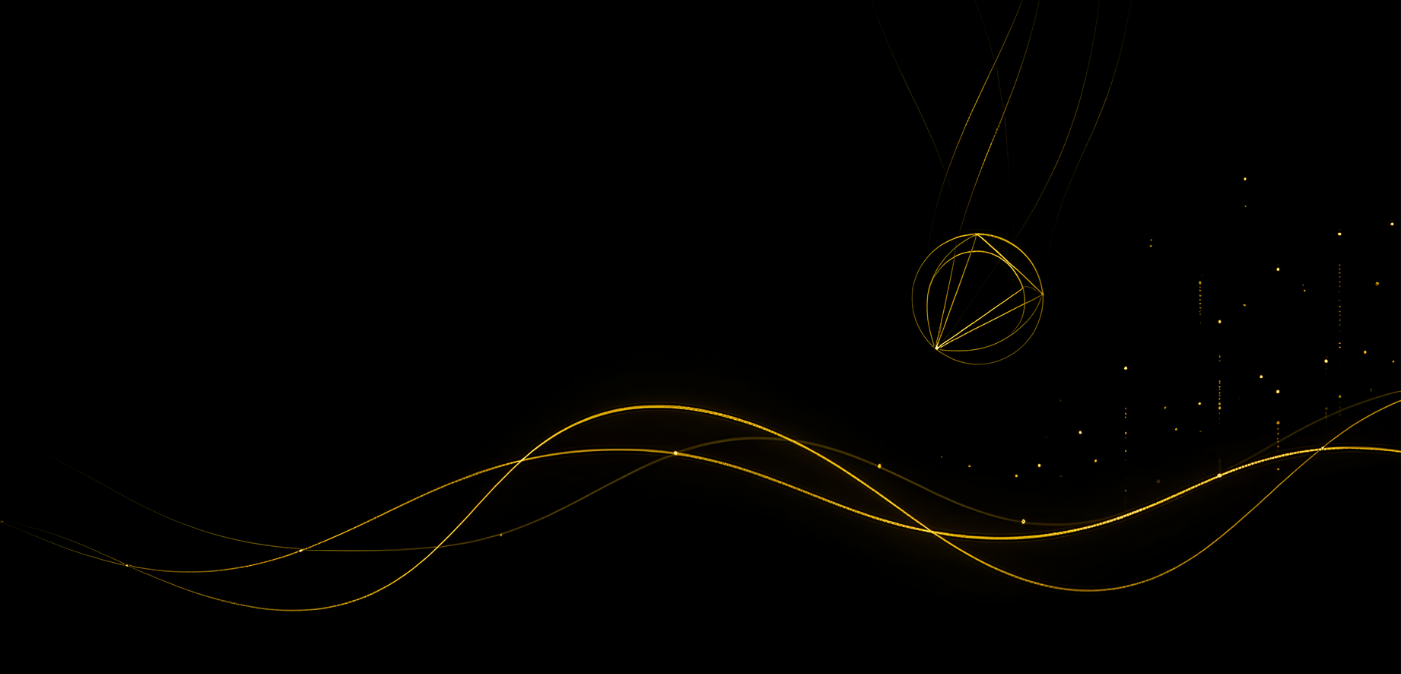
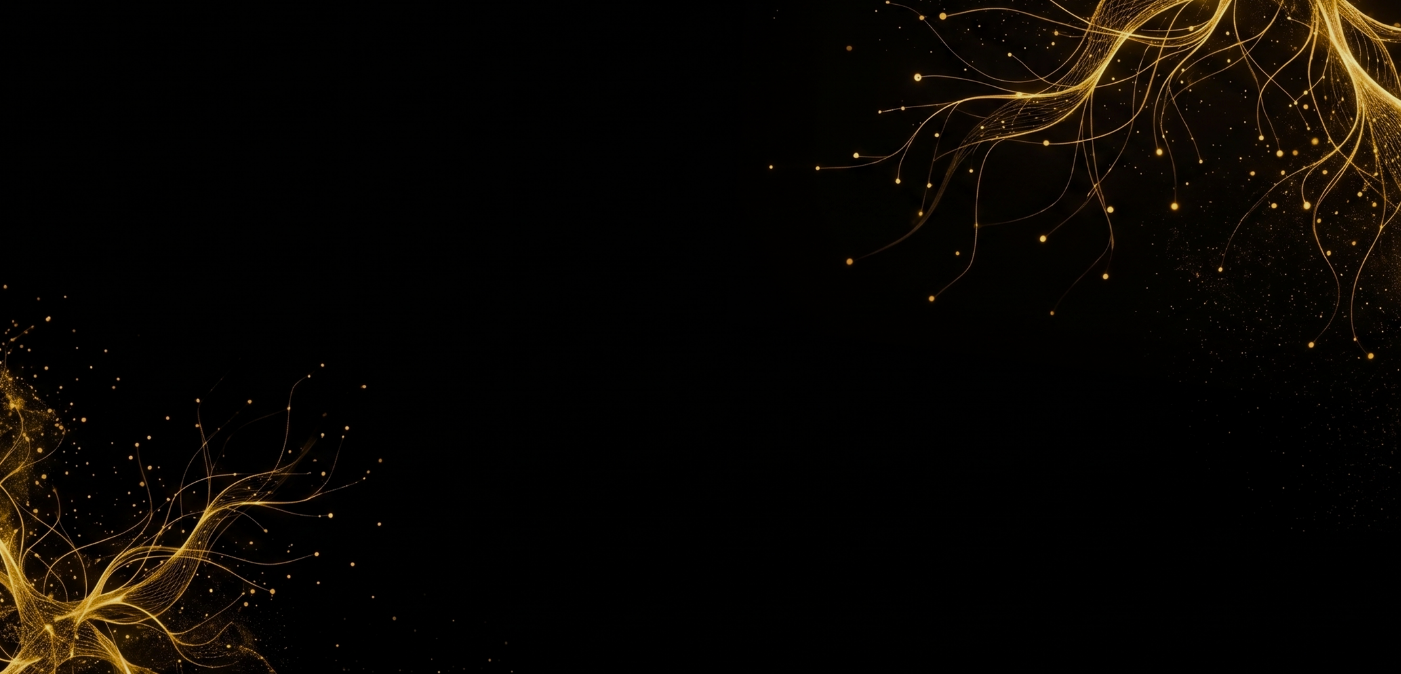
fixed publication image

diff --git a/src/index.css b/src/index.css
@@ -2,24 +2,14 @@
 
 @theme {
   /* Colors */
-  /* BLACK - main background color*/
-  --color-theme-black: #000; /* Deep, rich charcoal/black */
+  --color-theme-black: #000;
   --color-theme-heading: #ffffff;
-
-  /* textt */
-  --color-theme-gold: #fdc700;
-  --color-theme-gold-muted: #fafa33;
-  --color-theme-gold-light: #e6c587;
-
-  /* CANT REMEMBER - BUT ZINC BORDERS AND MUTED TEXTS */
+  /* borders */
   --color-theme-neutral-dark: #171717;
   --color-theme-neutral-muted: #a3a3a3;
   --color-theme-neutral-light: #a1a1a1;
-  /* 
-  /* NEED TO DELETE THIS BUT I AM USING SO REFACTOR  */
-  /* --color-theme-text: #cbbbbeff;  */
-
-  /* YELLOW - SECONDARY COLOR AND ITS DARK GRADIENT */
+  /* accents */
+  --color-theme-accent-light: #fdc700;
   --background-image-text-secondary: linear-gradient(
     to right,
     var(--color-yellow-400),
@@ -31,49 +21,22 @@
     var(--color-yellow-900)
   );
 
-  /* yellow-500 for border/highlights */
-  --color-theme-accent: #fafa33;
-  --color-theme-accent-light: #fdc700;
-
-  /* ALL COLOR PROPERTIES FROM HERE IT NEEDS TO BE REPLACED */
-  /* --background-image-heading-gradient: linear-gradient(
-    to right,
-    var(--color-yellow-400),
-    var(--color-yellow-700)
-  );
-  --background-image-heading-gradient-hover: linear-gradient(
-    to right,
-    var(--color-yellow-600),
-    var(--color-yellow-900)
-  );
-  --color-theme-accent-hover: #fef08a; */
-
   /* Fonts */
   --font-heading: "Playfair Display", serif;
   --font-body: "Inter", sans-serif;
-  /* for numbers */
   --font-mono: "Space Mono", monospace;
 
   /* Fluid Typography */
-  /* H1: Hero/Main Title */
   --text-fluid-1: clamp(2rem, 4vw, 3.5rem);
-
-  /* H2: Section Headers */
   --text-fluid-2: clamp(1.5rem, 3vw, 2rem);
-
-  /* H3: Sub-headers / Card Titles */
   --text-fluid-3: clamp(1.15rem, 2vw, 1.5rem);
-
-  /* Body Text: High readability */
   --text-fluid-4: clamp(1rem, 1.5vw, 1.15rem);
-
-  /* body font */
   --text-fluid-p: clamp(0.95rem, 1.1vw, 1.05rem);
 }
 
 @layer base {
   body {
-    @apply bg-theme-black font-body text-theme-gold-muted selection:bg-theme-accent/30 selection:text-theme-accent;
+    @apply bg-theme-black font-body text-theme-accent-light selection:bg-theme-accent-light/30 selection:text-theme-accent-light;
     overflow-x: hidden;
   }
   h1 {

diff --git a/src/components/Layout/Footer.jsx b/src/components/Layout/Footer.jsx
@@ -39,12 +39,12 @@ const connectLinks = [
 
 const Footer = () => {
   return (
-    <footer className="bg-black pt-20 pb-8 px-6 md:px-12 lg:px-20 border-t border-neutral-900 overflow-hidden">
+    <footer className="bg-theme-black pt-20 pb-8 px-6 md:px-12 lg:px-20 border-t border-theme-neutral-dark overflow-hidden">
       {/* Top Section - Stack vertically on mobile, side-by-side on medium+ screens */}
-      <div className="flex flex-col md:flex-row justify-between border-b border-neutral-900 pb-10 gap-10 md:gap-0">
+      <div className="flex flex-col md:flex-row justify-between border-b border-theme-neutral-dark pb-10 gap-10 md:gap-0">
         {/* Brand/Logo Section */}
         <div className="flex flex-col justify-start">
-          <h3 className="text-3xl tracking-[0.15em] text-white mb-3 font-semibold">
+          <h3 className="text-3xl tracking-[0.15em] text-theme-heading mb-3 font-semibold">
             A.K.
             <span className="text-secondary"> JANA</span>
           </h3>
@@ -67,7 +67,7 @@ const Footer = () => {
                   <Link
                     key={link.name}
                     to={link.path}
-                    className="flex items-center gap-3 text-neutral-400 text-sm hover:text-yellow-400 transition-all duration-300 group w-fit"
+                    className="flex items-center gap-3 text-theme-neutral-muted text-sm hover:text-theme-accent-light transition-all duration-300 group w-fit"
                   >
                     <Icon className="w-4 h-4 group-hover:scale-110 transition-transform duration-300" />
                     <span>{link.name}</span>
@@ -89,7 +89,7 @@ const Footer = () => {
                   href={link.href}
                   target="_blank"
                   rel="noopener noreferrer"
-                  className="flex items-center gap-3 text-neutral-400 text-sm hover:text-yellow-400 transition-all duration-300 group w-fit"
+                  className="flex items-center gap-3 text-theme-neutral-light text-sm hover:text-theme-accent-light transition-all duration-300 group w-fit"
                 >
                   {/* Custom Image Wrapper */}
                   <div className="w-5 h-5 flex items-center justify-center opacity-70 group-hover:opacity-100 group-hover:scale-110 transition-all duration-300">
@@ -108,25 +108,15 @@ const Footer = () => {
       </div>
 
       {/* Bottom Copyright Section */}
-      <div className="pt-8 flex flex-col md:flex-row justify-between items-start md:items-center gap-4 text-neutral-100 text-xs tracking-wider">
+      <div className="pt-8 flex flex-col md:flex-row justify-between items-start md:items-center gap-4 text-theme-neutral-light text-xs tracking-wider">
         <p>
           © {new Date().getFullYear()}
           <span className="text-secondary font-medium"> A.K. Jana</span> All
           rights reserved.
         </p>
-        <p className="text-left md:text-right font-light text-sm text-neutral-400">
+        <p className="text-left md:text-right font-light text-sm text-theme-neutral-light">
           Built by{" "}
-          <a
-            href="https://github.com/Dpsh613"
-            target="_blank"
-            rel="noopener noreferrer"
-            className="text-secondary relative inline-block opacity-80 hover:opacity-100 transition-opacity duration-300
-               after:absolute after:left-0 after:-bottom-0.5 after:h-[1px] after:w-0
-               after:bg-current after:transition-all after:duration-300
-               hover:after:w-full"
-          >
-            Deepika Sharma
-          </a>
+          <span className="text-secondary font-light font-sm">D.S</span>
         </p>
       </div>
     </footer>

diff --git a/src/components/features/home/HomeHero.jsx b/src/components/features/home/HomeHero.jsx
@@ -67,15 +67,16 @@ const HomeHero = () => {
               key={item.id}
               className="flex items-center gap-2 text-white/90 text-sm font-light tracking-wide"
             >
-              {/* Forced gold color for icons so they definitely show up */}
-              <span className="text-[#fdc700]">{getIcon(item.id)}</span>
+              <span className="text-theme-accent-light">
+                {getIcon(item.id)}
+              </span>
               {item.text}
             </div>
           ))}
         </div>
       </div>
 
-      <div className="w-full max-w-xl h-px bg-white/10 mb-5"></div>
+      <div className="w-full max-w-xl h-px bg-theme-heading/10 mb-5"></div>
 
       {/* Stats Grid - Tightened margins */}
       <div className="flex flex-wrap sm:flex-nowrap items-center gap-y-4 mb-2 max-w-xl">
@@ -83,29 +84,28 @@ const HomeHero = () => {
           <div className="text-3xl lg:text-4xl font-heading text-secondary mb-2">
             {pubData?.length || 0}
           </div>
-          <div className="text-xs sm:text-sm text-white/60 font-sans tracking-wider uppercase">
+          <div className="text-xs sm:text-sm text-theme-heading font-sans tracking-wider uppercase">
             Publications
           </div>
         </div>
-        <div className="w-1/2 sm:w-auto sm:px-8 text-left sm:border-l sm:border-white/10">
+        <div className="w-1/2 sm:w-auto sm:px-8 text-left sm:border-l sm:border-theme-heading">
           <div className="text-3xl lg:text-4xl font-heading text-secondary mb-2">
             {totalProposals}
           </div>
-          <div className="text-xs sm:text-sm text-white font-sans tracking-wider uppercase">
+          <div className="text-xs sm:text-sm text-theme-heading font-sans tracking-wider uppercase">
             Accepted Proposals
           </div>
         </div>
-        <div className="w-full sm:w-auto pt-2 sm:pt-0 border-t sm:border-t-0 sm:border-l border-white/10 sm:pl-8 text-left">
+        <div className="w-full sm:w-auto pt-2 sm:pt-0 border-t sm:border-t-0 sm:border-l border-theme-heading sm:pl-8 text-left">
           <div className="text-3xl lg:text-4xl font-heading text-secondary mb-2">
             {totalDays}
           </div>
-          <div className="text-xs sm:text-sm text-white font-sans tracking-wider uppercase">
+          <div className="text-xs sm:text-sm text-theme-heading font-sans tracking-wider uppercase">
             Beamdays Awarded
           </div>
         </div>
       </div>
 
-      {/* FIXED BUTTON: Replaced tailwind class with hardcoded hex background so it stands out bright gold instead of black-on-black */}
       <div className="pt-6 flex justify-center md:justify-start w-full">
         <HeroPrimary to="/publications">All Publications</HeroPrimary>
       </div>

diff --git a/src/components/Layout/PageHero.jsx b/src/components/Layout/PageHero.jsx
@@ -28,8 +28,8 @@ const PageHero = ({
         <Stagger
           className={`${leftCol} flex flex-col justify-center min-w-0 w-full overflow-hidden`}
         >
-          <StaggerItem className="flex items-center mb-1">
-            <span className="w-6 h-px bg-theme-accent shrink-0"></span>
+          <StaggerItem className="flex items-center mb-2">
+            <span className="w-10 h-px bg-theme-accent-light shrink-0"></span>
             <span className="text-secondary uppercase tracking-[0.2em] text-xs ml-2 font-bold font-mono shrink-0">
               {data.subtitle}
             </span>
@@ -37,7 +37,7 @@ const PageHero = ({
 
           <StaggerItem className="w-full">
             {/* Reduced from 5rem to 4rem to save vertical space */}
-            <h1 className="mb-4 text-gray-300 text-4xl md:text-5xl lg:text-[4rem] leading-[1.1] font-heading drop-shadow-md">
+            <h1 className="mb-4 text-theme-heading text-4xl md:text-5xl lg:text-[4rem] leading-[1.1] font-heading drop-shadow-md">
               {data.title}{" "}
               <span className="inline-block font-medium text-secondary transition-all duration-300">
                 {data.highlight}
@@ -55,10 +55,10 @@ const PageHero = ({
           )}
 
           {data.desc && (
-            <StaggerItem className="w-full">
-              <div className="w-12 h-px bg-secondary/40 my-2 hidden md:block"></div>
+            <StaggerItem className="w-full mb-4">
+              <div className="w-12 h-px hidden md:block"></div>
               {/* Tightened line-height and text size */}
-              <p className="max-w-xl text-[#d1d5db] font-sans text-sm md:text-base leading-snug break-words">
+              <p className="max-w-xl text-theme-heading font-sans text-sm md:text-base leading-snug break-words">
                 {data.desc}
               </p>
             </StaggerItem>
@@ -72,7 +72,7 @@ const PageHero = ({
         </Stagger>
 
         <div
-          className={`${rightCol} flex justify-center md:justify-end items-end w-full min-w-0 h-full`}
+          className={`${rightCol} flex justify-center md:justify-center items-end w-full min-w-0 h-full`}
         >
           {rightContent}
         </div>

diff --git a/src/components/Layout/Header.jsx b/src/components/Layout/Header.jsx
@@ -72,7 +72,7 @@ const Header = () => {
         </Link>
         <nav className="hidden xl:flex gap-10 relative">
           <div
-            className="absolute bottom-[-8px] h-[2px] bg-yellow-400 transition-all duration-500 ease-in-out"
+            className="absolute bottom-[-8px] h-[2px] bg-theme-accent-light transition-all duration-500 ease-in-out"
             style={{
               left: `${lineStyle.left}px`,
               width: `${lineStyle.width}px`,
@@ -134,8 +134,8 @@ const Header = () => {
             onClick={() => setIsMobileOpen(false)}
             className={`text-sm sm:text-base font-medium uppercase tracking-widest transition-all duration-300 ${
               location.pathname === link.path
-                ? "text-yellow-400 translate-x-2"
-                : "text-neutral-400 hover:text-white"
+                ? "text-theme-light translate-x-2"
+                : "text-theme-neutral-light hover:text-white"
             }`}
           >
             {link.name}

diff --git a/src/components/ui/AtomicJourney.jsx b/src/components/ui/AtomicJourney.jsx
@@ -72,10 +72,10 @@ const AtomicJourney = () => {
                 return (
                   <div
                     key={pub.id}
-                    className="absolute left-[40] top-[40] pointer-events-auto"
+                    // here --
+                    className="absolute left-1/2 top-1/2"
                     style={{
-                      // Positions the dot exactly on the ring based on its date
-                      transform: `rotate(${angle}deg) translateX(${radius}px)`,
+                      transform: `translate(-50%, -50%) rotate(${angle}deg) translateX(${radius}px)`,
                     }}
                   >
                     {/* 

diff --git a/src/components/features/home/Awards.jsx b/src/components/features/home/Awards.jsx
@@ -26,10 +26,7 @@ const Awards = () => {
                     <h3 className="tracking-wider leading-snug">
                       {award.title}
                     </h3>
-                    <span
-                      span
-                      className="text-[10px] font-bold uppercase tracking-widest px-2 py-0.5 bg-theme-black text-secondary rounded border border-theme-accent"
-                    >
+                    <span className="text-[10px] font-bold uppercase tracking-widest px-2 py-0.5 bg-theme-black text-secondary rounded border border-theme-accent">
                       {award.type}
                     </span>
                   </div>

diff --git a/src/components/features/publications/PublicationHero.jsx b/src/components/features/publications/PublicationHero.jsx
@@ -11,8 +11,8 @@ export default function PublicationHero() {
       bgImage={bgImg}
       rightContent={<AtomicJourney />}
       // Fixed: Added md:col-span-6
-      leftCol="md:col-span-6 lg:col-span-5"
-      rightCol="md:col-span-6 lg:col-span-7"
+      leftCol="md:col-span-4 lg:col-span-5"
+      rightCol="md:col-span-8 lg:col-span-7"
     />
   );
 }

diff --git a/src/components/features/collab/CollaboratorHero.jsx b/src/components/features/collab/CollaboratorHero.jsx
@@ -1,6 +1,6 @@
 import React from "react";
 import PageHero from "../../Layout/PageHero";
-import GlobalNetwork from "../../ui/GlobalNetwork";
+
 import { heroData } from "../../../constants/collaboratorsData";
 import bgImg from "../../../assets/images/lattice.png";
 

diff --git a/src/components/features/researchExpertise/ResearchHero.jsx b/src/components/features/researchExpertise/ResearchHero.jsx
@@ -1,6 +1,5 @@
 import React from "react";
 import PageHero from "../../Layout/PageHero";
-import ExpertiseGraphic from "../../ui/ExpertiseGraphic";
 import { heroData } from "../../../constants/researchExpertiesData";
 import bgImg from "../../../assets/images/plains.png";
 

diff --git a/src/pages/CollaboratorsPage.jsx b/src/pages/CollaboratorsPage.jsx
@@ -8,7 +8,6 @@ import PageHero from "../components/Layout/PageHero";
 import SectionWrapper from "../components/Layout/SectionWrapper";
 import CollaboratorHero from "../components/features/collab/CollaboratorHero";
 import CollaboratorRegion from "../components/features/collab/CollaboratorRegion";
-import GlobalNetwork from "../components/ui/GlobalNetwork";
 import { Globe2, MapPin } from "lucide-react";
 
 // Filter data